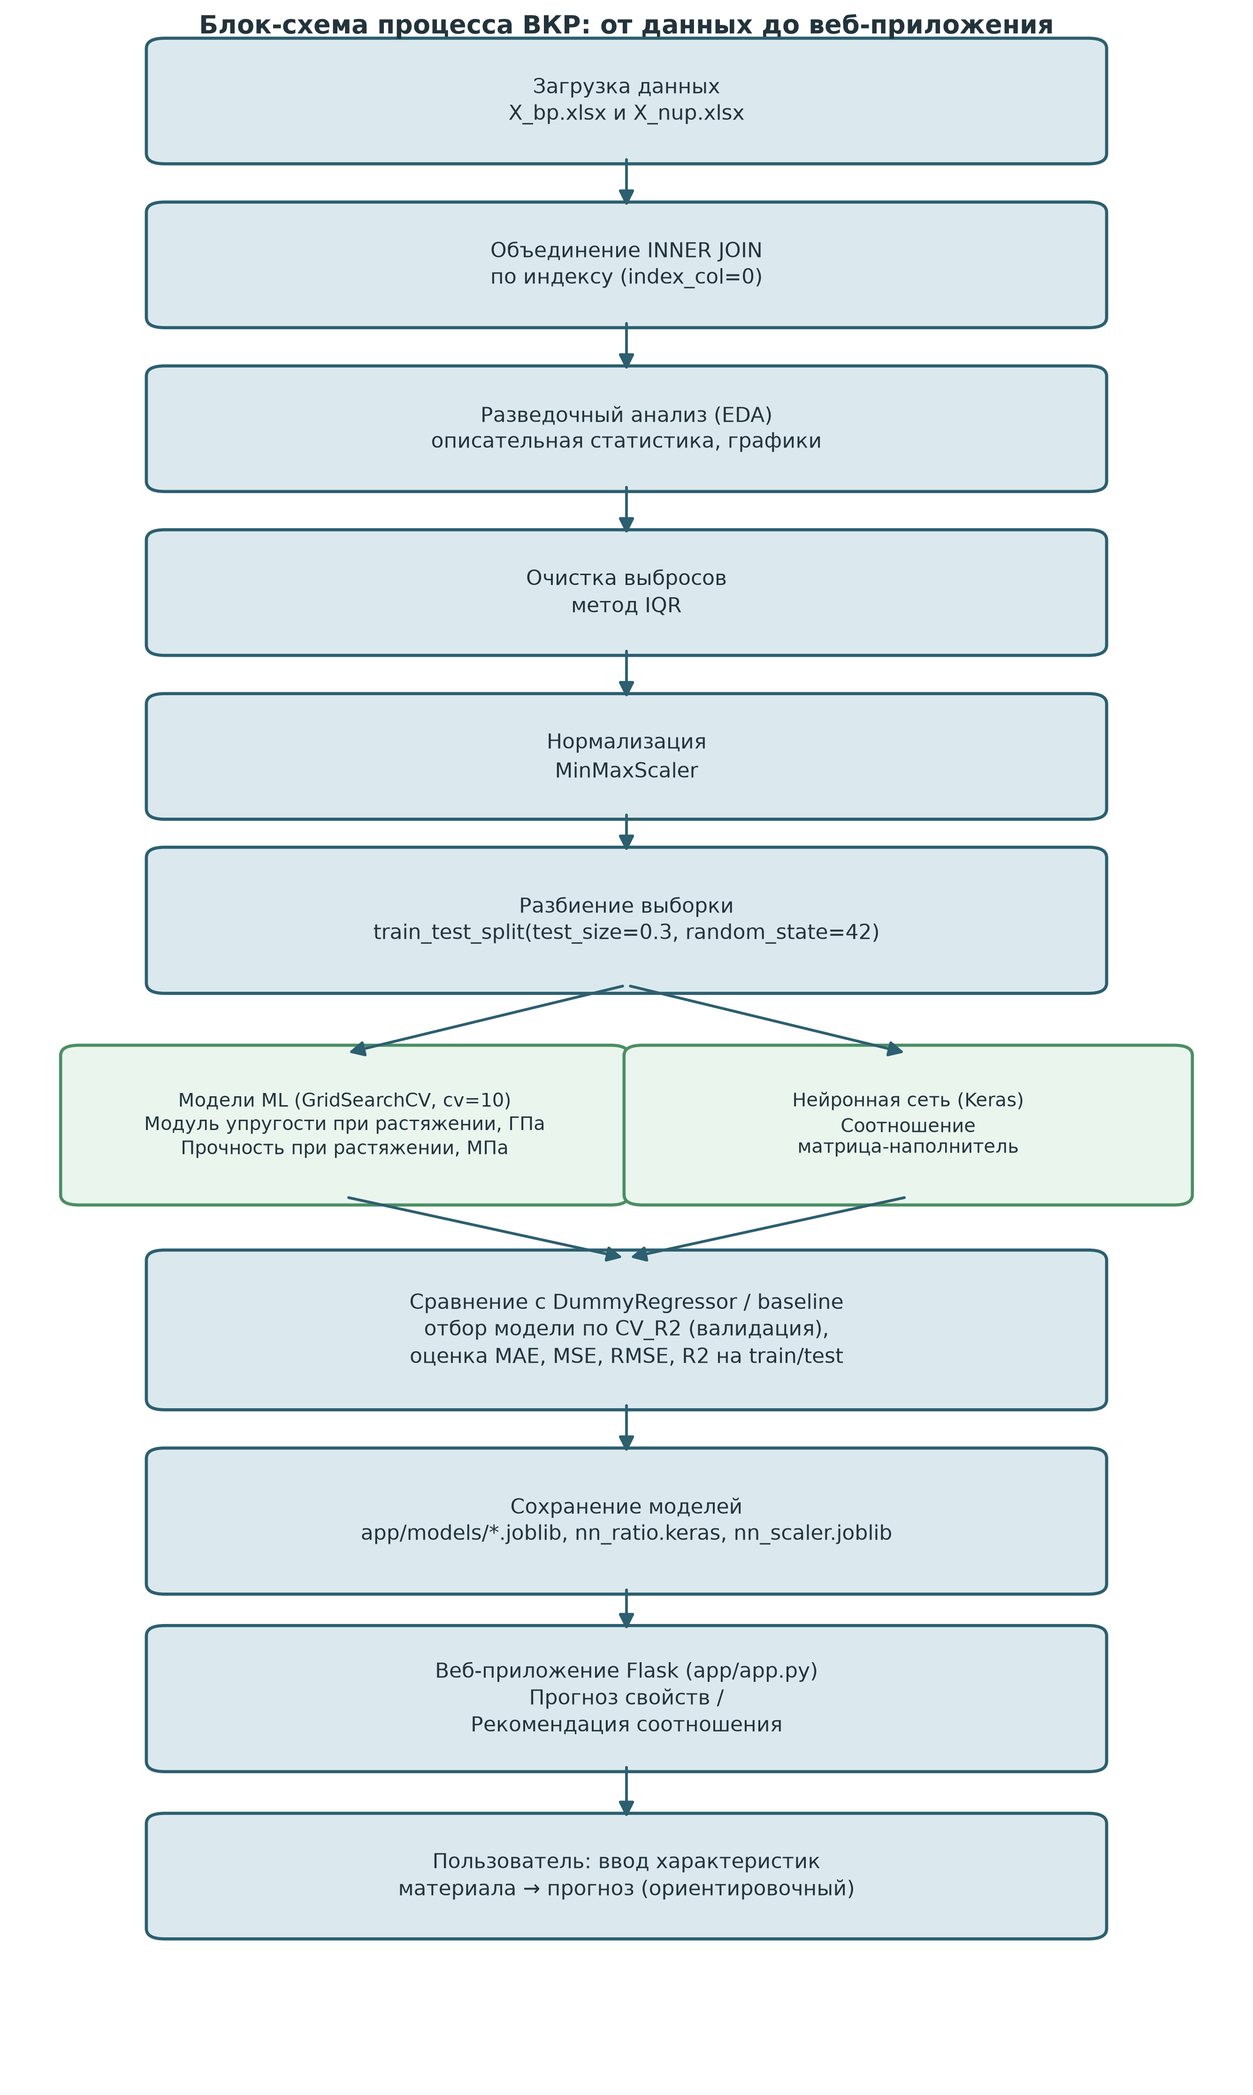
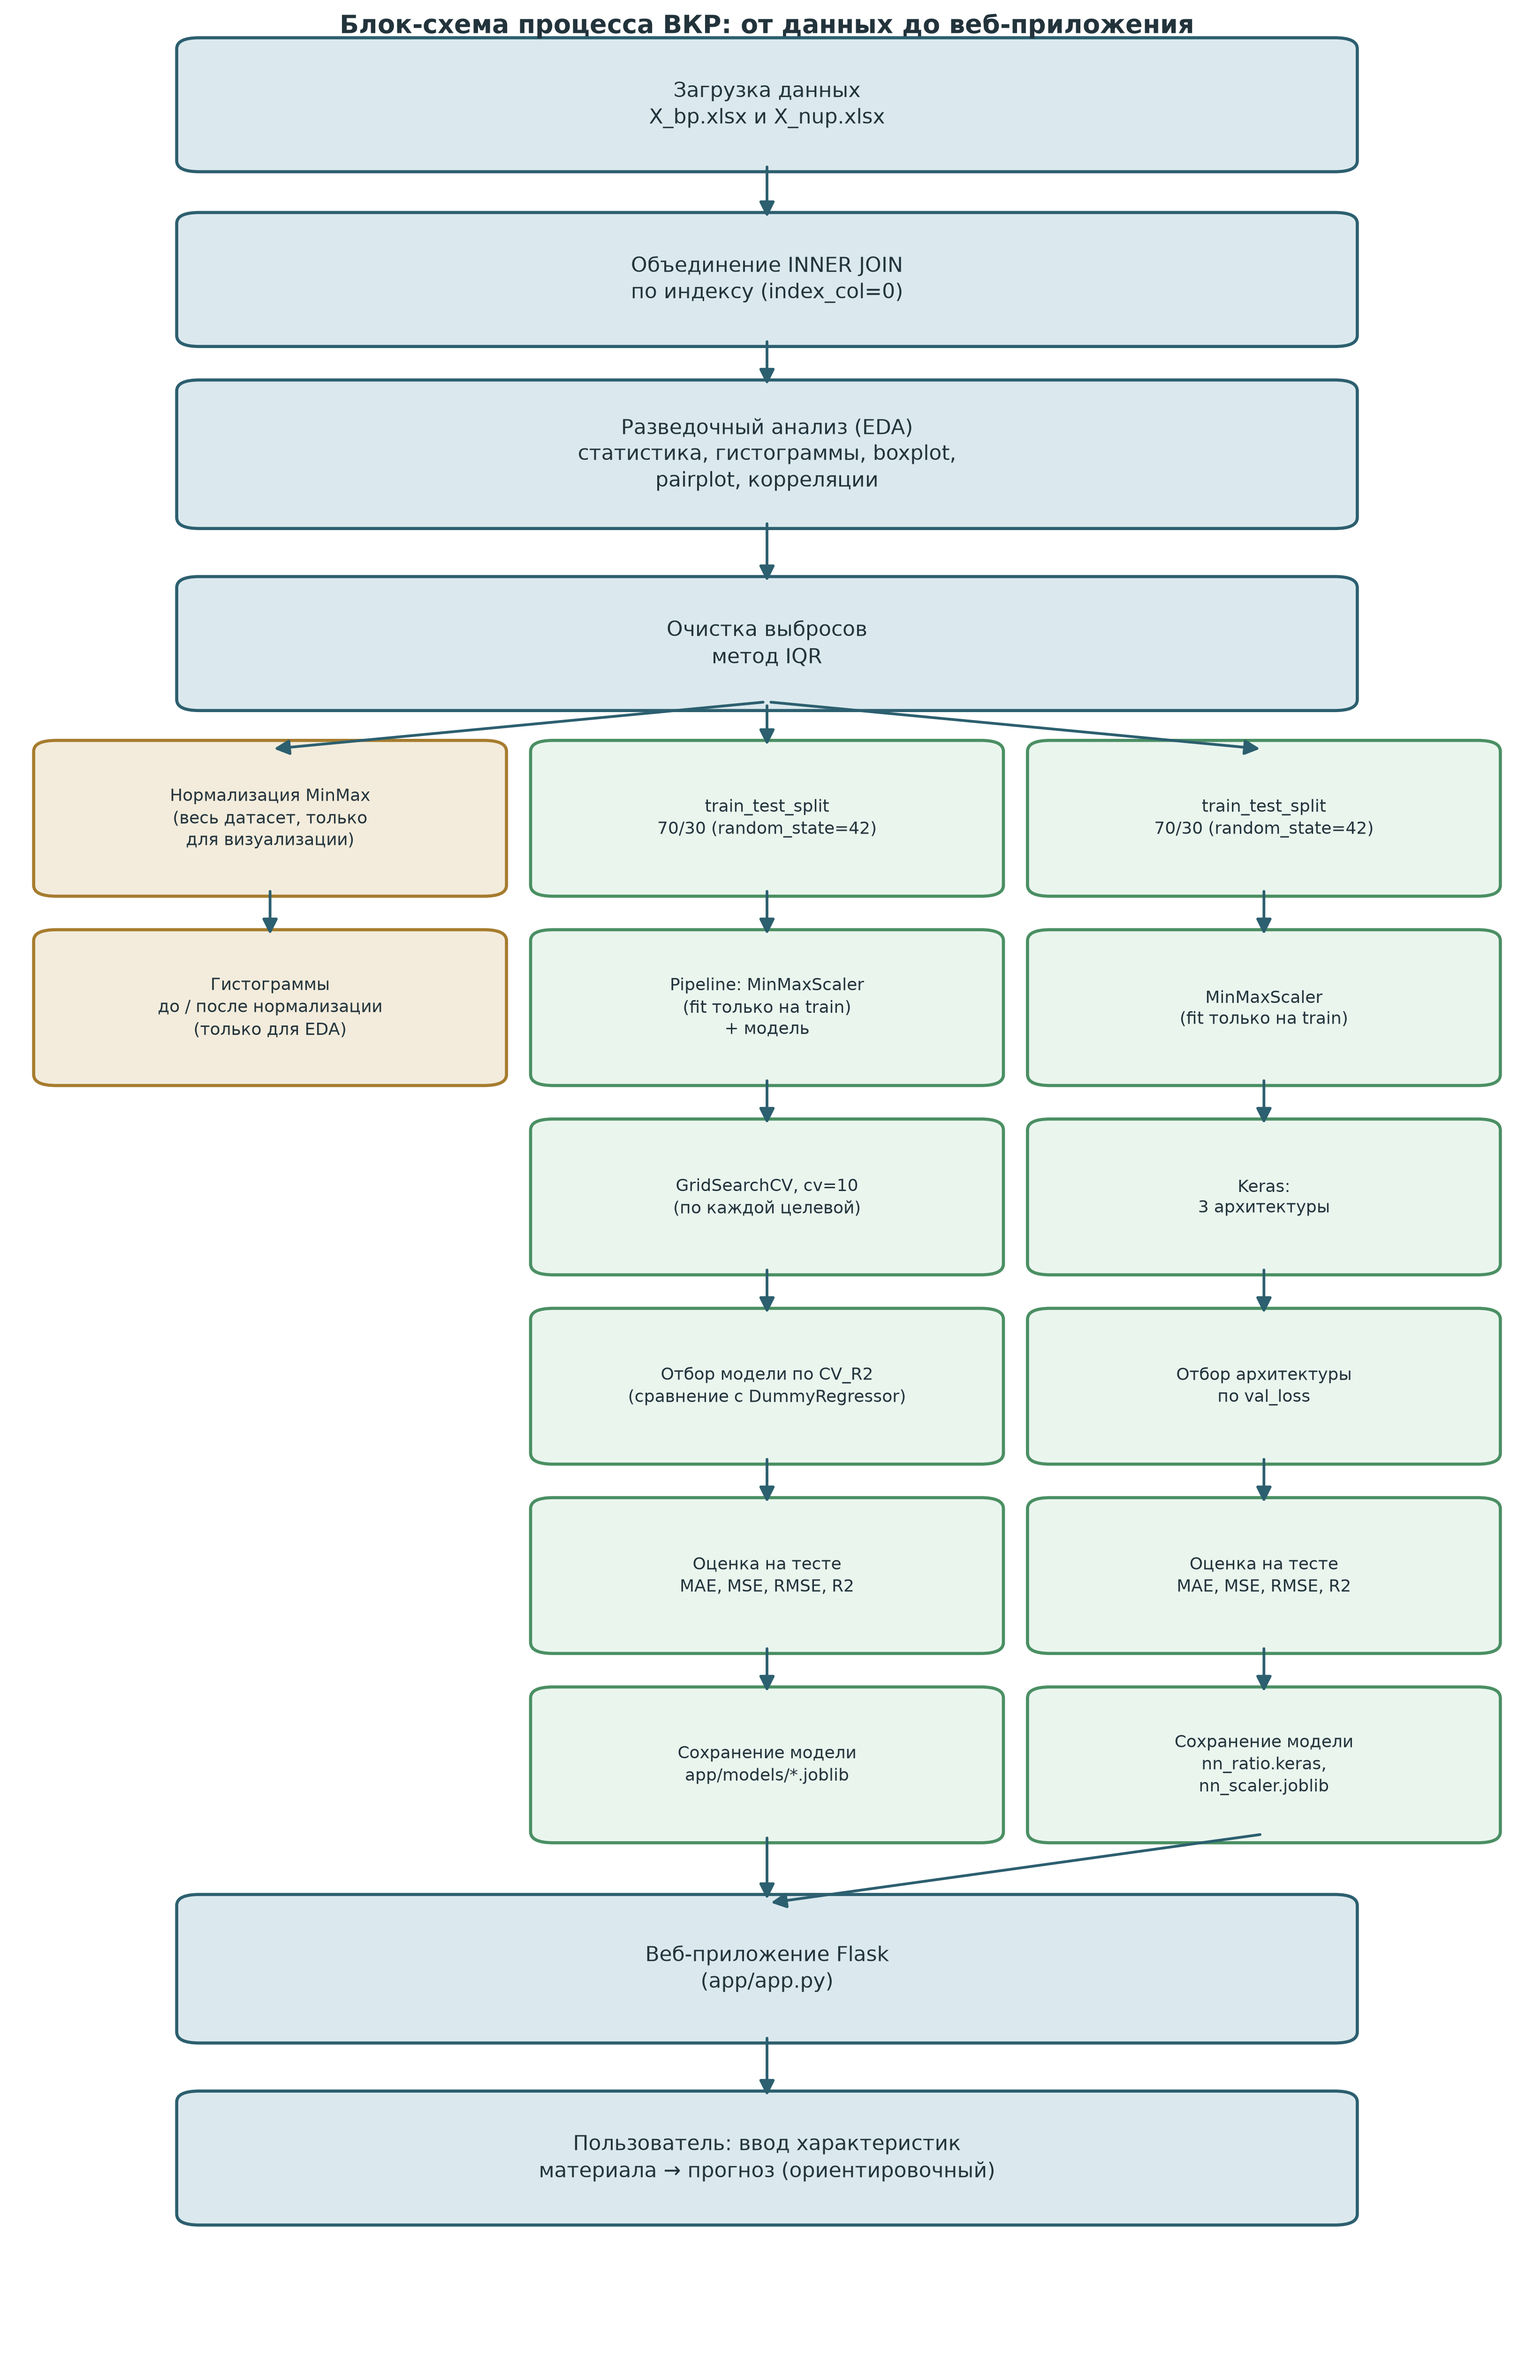
Исправлен порядок этапов на блок-схеме процесса
Блок-схема (figures/flowchart.png и Mermaid в README) теперь верно
отражает три ветви после очистки выбросов IQR: нормализация MinMax
только для визуализации EDA, ветвь ML (train_test_split -> Pipeline
с MinMaxScaler на train -> GridSearchCV -> отбор по CV_R2 -> оценка
на тесте -> сохранение) и ветвь нейронной сети (train_test_split ->
MinMaxScaler на train -> Keras 3 архитектуры -> отбор по val_loss ->
оценка на тесте -> сохранение). Обе ветви моделирования сходятся в
веб-приложении Flask.

Changed region(s): [[0.0, 0.0, 0.9637, 0.9648], [0.9326, 0.498, 0.9637, 0.5602], [0.0311, 0.498, 0.0622, 0.5291]]

diff --git a/scripts/_build_flowchart.py b/scripts/_build_flowchart.py
@@ -16,9 +16,12 @@ SPLIT_COLOR = "#eaf5ee"
 SPLIT_EDGE = "#4a8f63"
 TEXT_COLOR = "#22333b"
 
-fig, ax = plt.subplots(figsize=(9, 15))
+EDA_COLOR = "#f3ecdc"
+EDA_EDGE = "#a67c2e"
+
+fig, ax = plt.subplots(figsize=(11, 17))
 ax.set_xlim(0, 10)
-ax.set_ylim(0, 30)
+ax.set_ylim(1, 33)
 ax.axis("off")
 
 
@@ -44,51 +47,90 @@ def arrow(b_from, b_to, dy_from=None, dy_to=None):
     ax.add_patch(a)
 
 
-# --- Основная цепочка ---
-b1 = box(5, 29, 7.6, 1.6, "Загрузка данных\nX_bp.xlsx и X_nup.xlsx")
-b2 = box(5, 26.6, 7.6, 1.6, "Объединение INNER JOIN\nпо индексу (index_col=0)")
-b3 = box(5, 24.2, 7.6, 1.6, "Разведочный анализ (EDA)\nописательная статистика, графики")
-b4 = box(5, 21.8, 7.6, 1.6, "Очистка выбросов\nметод IQR")
-b5 = box(5, 19.4, 7.6, 1.6, "Нормализация\nMinMaxScaler")
-b6 = box(5, 17.0, 7.6, 1.9,
-         "Разбиение выборки\ntrain_test_split(test_size=0.3, random_state=42)")
+# --- Основная цепочка (общая для всех данных) ---
+b1 = box(5, 32, 7.6, 1.6, "Загрузка данных\nX_bp.xlsx и X_nup.xlsx")
+b2 = box(5, 29.6, 7.6, 1.6, "Объединение INNER JOIN\nпо индексу (index_col=0)")
+b3 = box(5, 27.2, 7.6, 1.8,
+         "Разведочный анализ (EDA)\nстатистика, гистограммы, boxplot,\npairplot, корреляции")
+b4 = box(5, 24.6, 7.6, 1.6, "Очистка выбросов\nметод IQR")
 
 arrow(b1, b2)
 arrow(b2, b3)
 arrow(b3, b4)
-arrow(b4, b5)
-arrow(b5, b6)
 
-# --- Разветвление на два направления моделирования ---
-b7a = box(2.7, 14.0, 4.4, 2.1,
-          "Модели ML (GridSearchCV, cv=10)\nМодуль упругости при растяжении, ГПа\nПрочность при растяжении, МПа",
-          facecolor=SPLIT_COLOR, edgecolor=SPLIT_EDGE, fontsize=9.5)
-b7b = box(7.3, 14.0, 4.4, 2.1,
-          "Нейронная сеть (Keras)\nСоотношение\nматрица-наполнитель",
-          facecolor=SPLIT_COLOR, edgecolor=SPLIT_EDGE, fontsize=9.5)
+# --- Разветвление на три направления ---
+COL_EDA, COL_ML, COL_NN = 1.7, 5.0, 8.3
+COL_W = 2.9
 
-arrow(b6, b7a, p1 := (5, 17.0 - 1.9 / 2), p2 := (2.7, 14.0 + 2.1 / 2))
-arrow(b6, b7b, p1 := (5, 17.0 - 1.9 / 2), p2 := (7.3, 14.0 + 2.1 / 2))
+eda1 = box(COL_EDA, 22.2, COL_W, 1.9,
+           "Нормализация MinMax\n(весь датасет, только\nдля визуализации)",
+           facecolor=EDA_COLOR, edgecolor=EDA_EDGE, fontsize=8.7)
+ml1 = box(COL_ML, 22.2, COL_W, 1.9, "train_test_split\n70/30 (random_state=42)",
+          facecolor=SPLIT_COLOR, edgecolor=SPLIT_EDGE, fontsize=8.7)
+nn1 = box(COL_NN, 22.2, COL_W, 1.9, "train_test_split\n70/30 (random_state=42)",
+          facecolor=SPLIT_COLOR, edgecolor=SPLIT_EDGE, fontsize=8.7)
 
-b8 = box(5, 11.0, 7.6, 2.1,
-         "Сравнение с DummyRegressor / baseline\nотбор модели по CV_R2 (валидация),\nоценка MAE, MSE, RMSE, R2 на train/test")
+arrow(b4, eda1)
+arrow(b4, ml1)
+arrow(b4, nn1)
 
-arrow(b7a, b8, p1 := (2.7, 14.0 - 2.1 / 2), p2 := (5, 11.0 + 2.1 / 2))
-arrow(b7b, b8, p1 := (7.3, 14.0 - 2.1 / 2), p2 := (5, 11.0 + 2.1 / 2))
+eda2 = box(COL_EDA, 19.6, COL_W, 1.9,
+           "Гистограммы\nдо / после нормализации\n(только для EDA)",
+           facecolor=EDA_COLOR, edgecolor=EDA_EDGE, fontsize=8.7)
+ml2 = box(COL_ML, 19.6, COL_W, 1.9,
+          "Pipeline: MinMaxScaler\n(fit только на train)\n+ модель",
+          facecolor=SPLIT_COLOR, edgecolor=SPLIT_EDGE, fontsize=8.7)
+nn2 = box(COL_NN, 19.6, COL_W, 1.9,
+          "MinMaxScaler\n(fit только на train)",
+          facecolor=SPLIT_COLOR, edgecolor=SPLIT_EDGE, fontsize=8.7)
 
-b9 = box(5, 8.2, 7.6, 1.9,
-         "Сохранение моделей\napp/models/*.joblib, nn_ratio.keras, nn_scaler.joblib")
-arrow(b8, b9)
+arrow(eda1, eda2)
+arrow(ml1, ml2)
+arrow(nn1, nn2)
 
-b10 = box(5, 5.6, 7.6, 1.9,
-          "Веб-приложение Flask (app/app.py)\nПрогноз свойств /\nРекомендация соотношения")
+ml3 = box(COL_ML, 17.0, COL_W, 1.9, "GridSearchCV, cv=10\n(по каждой целевой)",
+          facecolor=SPLIT_COLOR, edgecolor=SPLIT_EDGE, fontsize=8.7)
+nn3 = box(COL_NN, 17.0, COL_W, 1.9, "Keras:\n3 архитектуры",
+          facecolor=SPLIT_COLOR, edgecolor=SPLIT_EDGE, fontsize=8.7)
+arrow(ml2, ml3)
+arrow(nn2, nn3)
+
+ml4 = box(COL_ML, 14.4, COL_W, 1.9,
+          "Отбор модели по CV_R2\n(сравнение с DummyRegressor)",
+          facecolor=SPLIT_COLOR, edgecolor=SPLIT_EDGE, fontsize=8.7)
+nn4 = box(COL_NN, 14.4, COL_W, 1.9, "Отбор архитектуры\nпо val_loss",
+          facecolor=SPLIT_COLOR, edgecolor=SPLIT_EDGE, fontsize=8.7)
+arrow(ml3, ml4)
+arrow(nn3, nn4)
+
+ml5 = box(COL_ML, 11.8, COL_W, 1.9,
+          "Оценка на тесте\nMAE, MSE, RMSE, R2",
+          facecolor=SPLIT_COLOR, edgecolor=SPLIT_EDGE, fontsize=8.7)
+nn5 = box(COL_NN, 11.8, COL_W, 1.9,
+          "Оценка на тесте\nMAE, MSE, RMSE, R2",
+          facecolor=SPLIT_COLOR, edgecolor=SPLIT_EDGE, fontsize=8.7)
+arrow(ml4, ml5)
+arrow(nn4, nn5)
+
+ml6 = box(COL_ML, 9.2, COL_W, 1.9,
+          "Сохранение модели\napp/models/*.joblib",
+          facecolor=SPLIT_COLOR, edgecolor=SPLIT_EDGE, fontsize=8.7)
+nn6 = box(COL_NN, 9.2, COL_W, 1.9,
+          "Сохранение модели\nnn_ratio.keras,\nnn_scaler.joblib",
+          facecolor=SPLIT_COLOR, edgecolor=SPLIT_EDGE, fontsize=8.7)
+arrow(ml5, ml6)
+arrow(nn5, nn6)
+
+# --- Слияние двух направлений моделирования в приложении ---
+b9 = box(5, 6.4, 7.6, 1.8, "Веб-приложение Flask\n(app/app.py)")
+arrow(ml6, b9)
+arrow(nn6, b9)
+
+b10 = box(5, 3.8, 7.6, 1.6,
+          "Пользователь: ввод характеристик\nматериала → прогноз (ориентировочный)")
 arrow(b9, b10)
 
-b11 = box(5, 3.0, 7.6, 1.6,
-          "Пользователь: ввод характеристик\nматериала → прогноз (ориентировочный)")
-arrow(b10, b11)
-
-ax.text(5, 29.9, "Блок-схема процесса ВКР: от данных до веб-приложения",
+ax.text(5, 32.9, "Блок-схема процесса ВКР: от данных до веб-приложения",
         ha="center", va="bottom", fontsize=13, fontweight="bold", color=TEXT_COLOR)
 
 fig.tight_layout()

diff --git a/README.md b/README.md
@@ -144,18 +144,30 @@ VKR_composites/
 
 ```mermaid
 flowchart TD
-    A[Загрузка данных\nX_bp.xlsx и X_nup.xlsx] --> B[Объединение INNER JOIN\nпо индексу]
-    B --> C[Разведочный анализ EDA]
+    A[Загрузка данных\nX_bp.xlsx и X_nup.xlsx] --> B[Объединение INNER JOIN\nпо индексу index_col=0]
+    B --> C["EDA: статистика, гистограммы,\nboxplot, pairplot, корреляции"]
     C --> D[Очистка выбросов\nметод IQR]
-    D --> E[Нормализация\nMinMaxScaler]
-    E --> F[train_test_split\ntest_size=0.3, random_state=42]
-    F --> G[Модели ML\nGridSearchCV, cv=10\nМодуль упругости / Прочность]
-    F --> H[Нейронная сеть Keras\nСоотношение матрица-наполнитель]
-    G --> I[Оценка: сравнение с DummyRegressor\nCV_R2, MAE, MSE, RMSE, R2]
-    H --> I
-    I --> J[Сохранение моделей\napp/models/]
-    J --> K[Веб-приложение Flask\napp/app.py]
-    K --> L[Пользователь: ввод параметров\n→ ориентировочный прогноз]
+
+    D --> E1[Нормализация MinMax\nвесь датасет, только для визуализации]
+    E1 --> E2["Гистограммы до/после\nнормализации (только для EDA)"]
+
+    D --> F1[train_test_split 70/30]
+    F1 --> F2["Pipeline: MinMaxScaler\nfit только на train + модель"]
+    F2 --> F3[GridSearchCV, cv=10]
+    F3 --> F4["Отбор модели по CV_R2\nсравнение с DummyRegressor"]
+    F4 --> F5[Оценка на тесте\nMAE, MSE, RMSE, R2]
+    F5 --> F6[Сохранение модели\napp/models/*.joblib]
+
+    D --> G1[train_test_split 70/30]
+    G1 --> G2[MinMaxScaler\nfit только на train]
+    G2 --> G3[Keras: 3 архитектуры]
+    G3 --> G4[Отбор архитектуры\nпо val_loss]
+    G4 --> G5[Оценка на тесте\nMAE, MSE, RMSE, R2]
+    G5 --> G6["Сохранение модели\nnn_ratio.keras, nn_scaler.joblib"]
+
+    F6 --> H[Веб-приложение Flask\napp/app.py]
+    G6 --> H
+    H --> I[Пользователь: ввод параметров\n→ ориентировочный прогноз]
 ```
 
 ## 7. Установка и запуск
